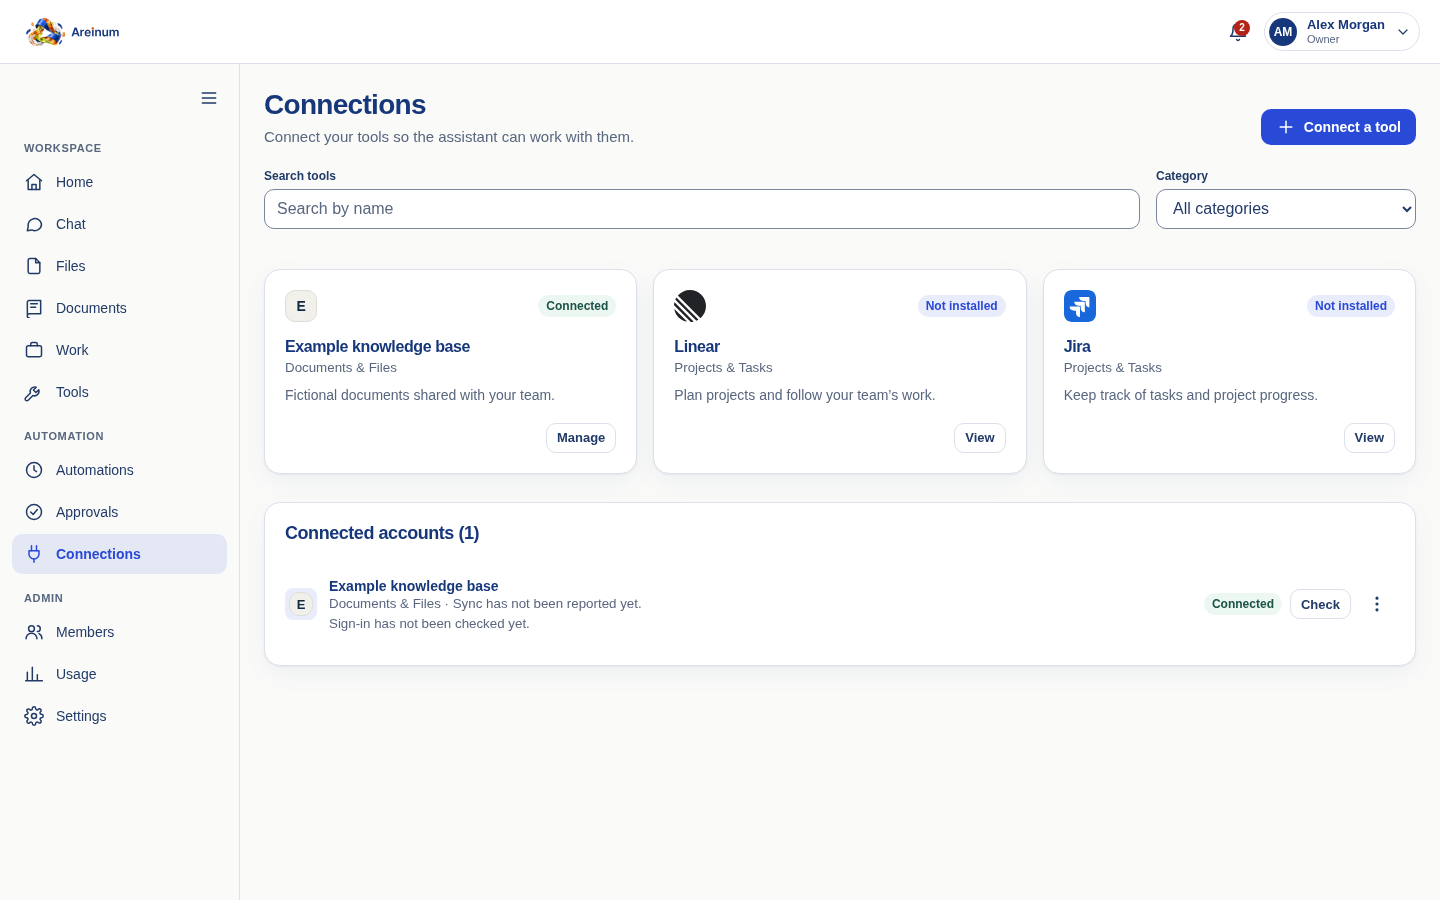
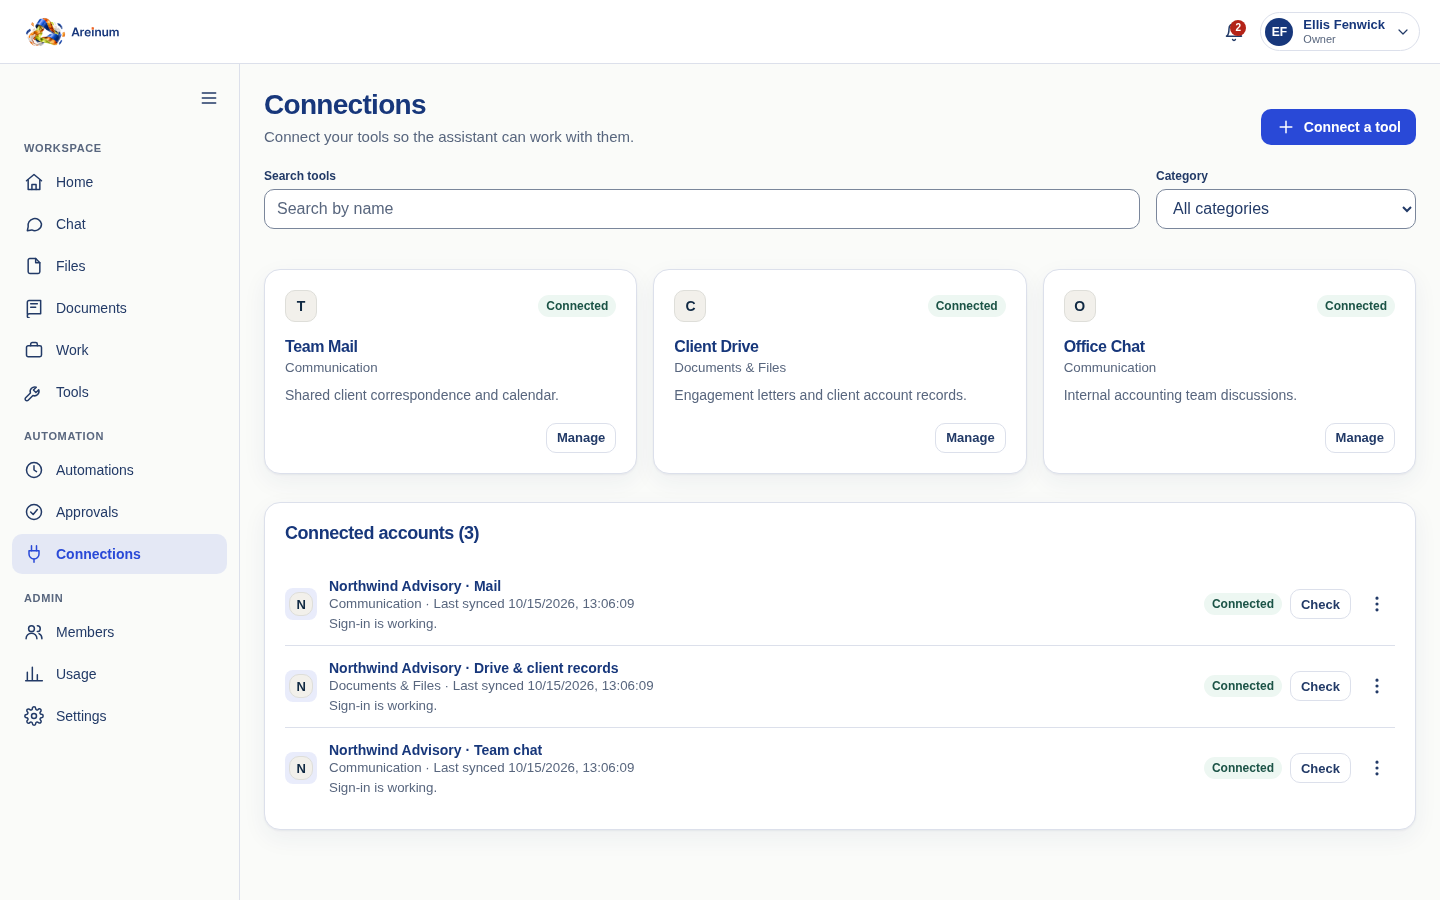
Show the chat with sources, the approval step and a short demo

diff --git a/README.md b/README.md
@@ -2,7 +2,7 @@
 
 **[areinum.com](https://areinum.com)**
 
-![Areinum home screen](images/areinum-home.png)
+![Areinum answering a question from company mail, files and CRM, with its sources](images/areinum-chat.png)
 
 Areinum is an AI agent workspace for small companies with 1 to 25 people. It works on the company's own data (mail, drives, chats, projects and CRM) without copying that data into the AI.
 
@@ -24,7 +24,7 @@ Security comes first in how Areinum is built. Each company's data is kept apart,
 - Team management covers owner, admin and member roles, access per source, invite links and display names.
 - The interface is in English, Polish, German and French.
 
-![Connecting company tools](images/areinum-connections.png)
+![Connected company accounts](images/areinum-connections.png)
 
 ### Security
 
@@ -37,6 +37,8 @@ Security comes first in how Areinum is built. Each company's data is kept apart,
 - Connections and stored secrets are encrypted. Backups are encrypted too, and an automated drill tests the restore.
 - An audit trail records who did what, without storing the content of messages or secrets.
 - Every change has to pass more than 4,000 automated tests, lint with warnings as errors, secret scanning and dependency vulnerability audits.
+
+![An irreversible action waiting for the owner's approval and a fresh second factor](images/areinum-approval.png)
 
 Found a security issue? See [SECURITY.md](SECURITY.md).
 
@@ -62,6 +64,8 @@ flowchart LR
 2. Someone asks a question or delegates a task. The agent gets short-lived access that matches that person's current permissions, and when their permissions change, the access changes too.
 3. The agent reads only what it needs, from the original source, and cites where each answer came from.
 4. Anything irreversible (sending, deleting, paying, publishing) needs the owner's explicit approval with a fresh second factor.
+
+![From a question to an approved action](images/areinum-demo.gif)
 
 ## Under the hood
 
